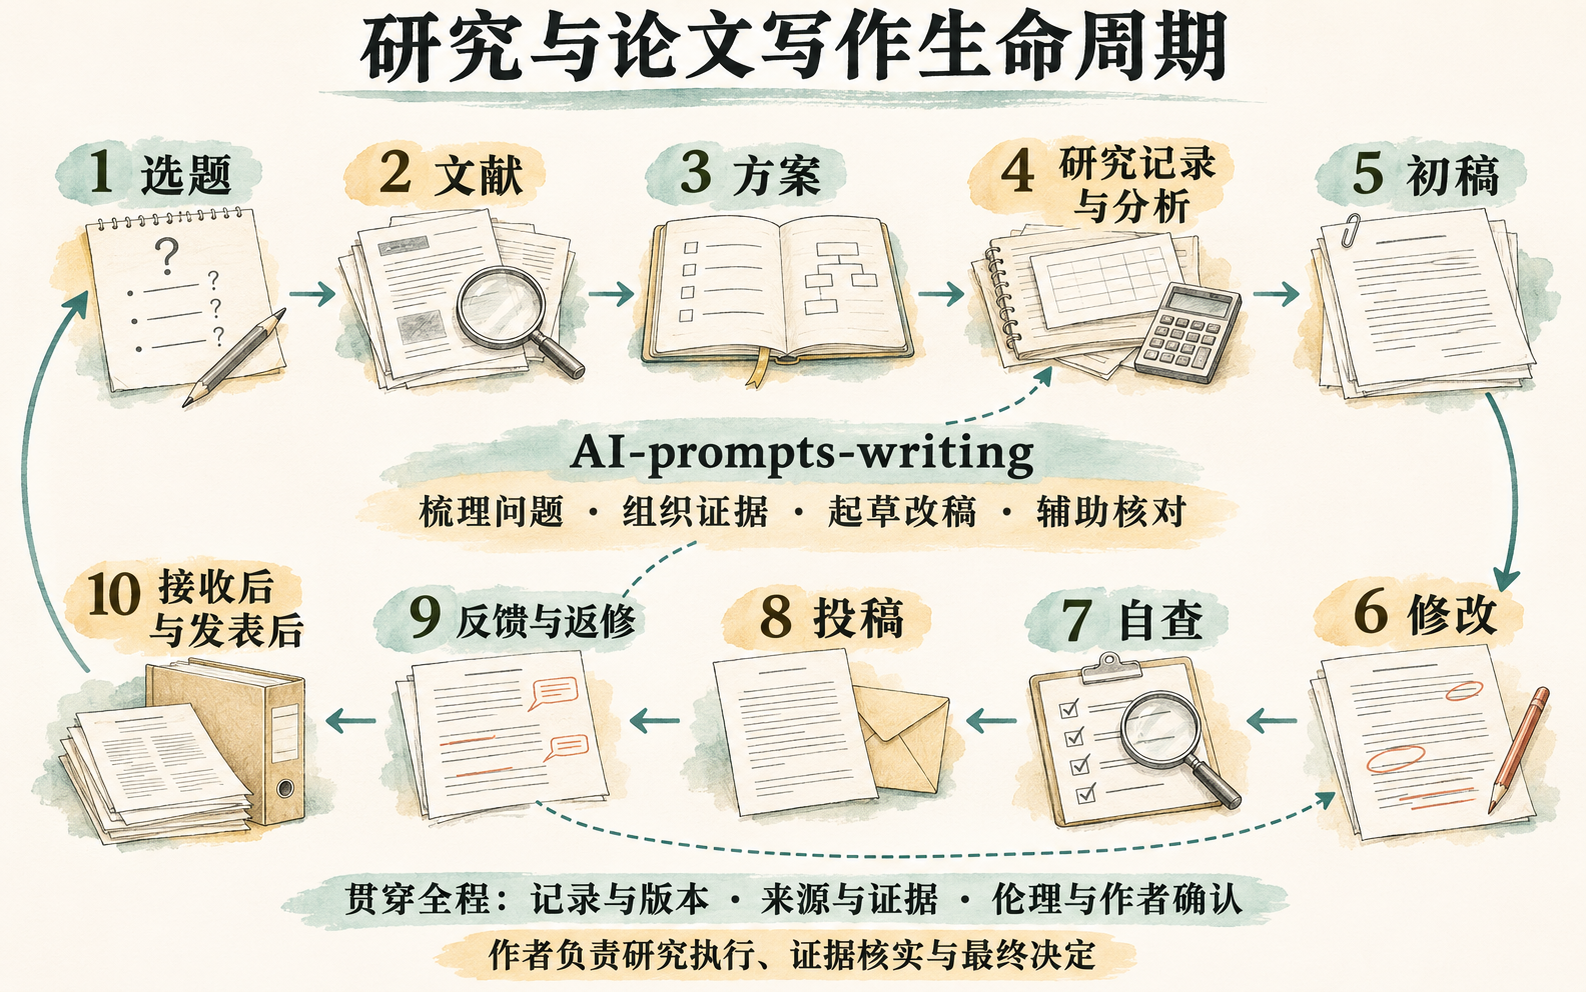
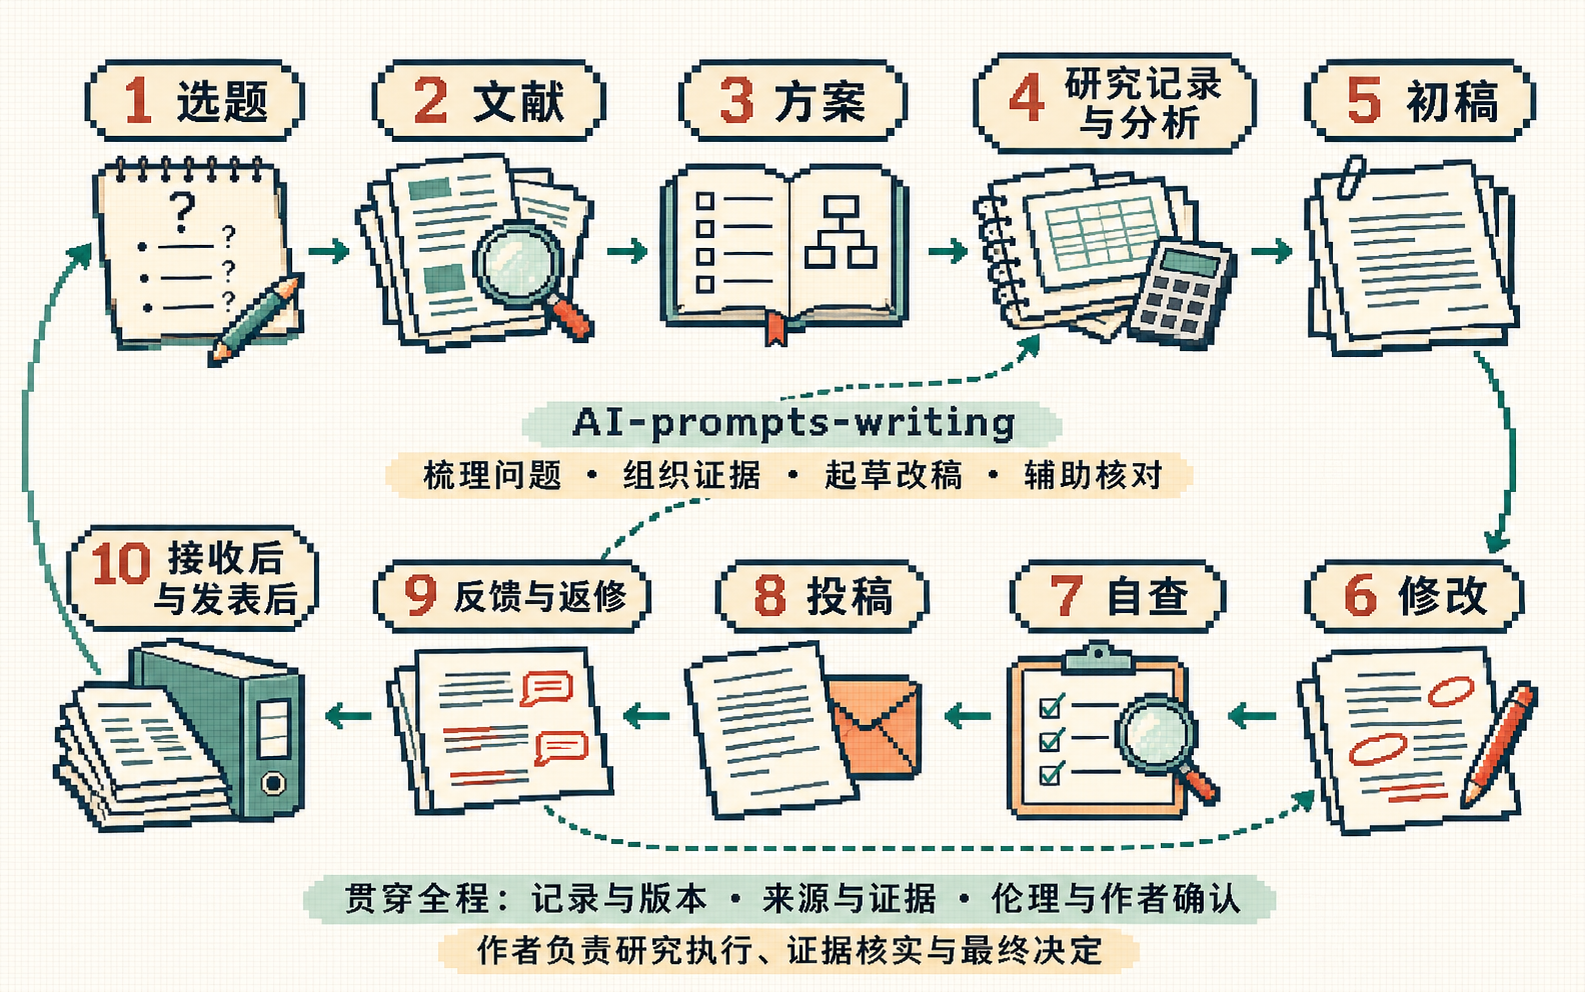
docs: redraw lifecycle figure as untitled pixel sketchnote

diff --git a/assets/research-writing-lifecycle-prompt.md b/assets/research-writing-lifecycle-prompt.md
@@ -1,5 +1,42 @@
 # 生命周期插图生成记录
+# 生命周期插图生成记录
 
+日期：2026-11-05。使用内置 image_gen 重新生成；图片用于项目说明，不是实验结果，也不代表任何期刊认可。
+
+本次按反馈改为像素手稿风格，并去掉顶部总标题。图中保留十个阶段、项目作用、返修回路和作者责任说明。没有使用外部 API，也没有用代码滤镜替代绘制。
+
+生成后的目视复核：像素方块、阶梯线条和有限配色清楚；顶部没有总标题；十个阶段编号各出现一次；主流程为 1→2→3→4→5→6→7→8→9→10；9→6、9→4 的虚线回路和 10→1 的外圈回路均可见。图中没有真实实验数据、比例承诺、出版方标志或水印。
+
+```text
+Use case: scientific-educational / infographic-diagram.
+Asset type: a single original landscape README illustration for AI-prompts-writing.
+
+Edit the provided lifecycle illustration into a pixel-sketch / pixel-art manuscript style. Use crisp square pixel clusters, stepped pixel edges, limited palette, sparse dithering, and pixelated hand-drawn notebook details. It should feel like a careful academic sketchnote made in pixel art, not watercolor, not smooth vector art, not calligraphy, not 3D, and not a cute cartoon.
+
+Remove the large top title completely. There must be no title or heading at the top and no empty title banner. Start the composition directly with the numbered lifecycle stages.
+
+Keep exactly these ten numbered Chinese stage labels, each number exactly once:
+"1 选题"
+"2 文献"
+"3 方案"
+"4 研究记录与分析"
+"5 初稿"
+"6 修改"
+"7 自查"
+"8 投稿"
+"9 反馈与返修"
+"10 接收后与发表后"
+
+Arrange them as a clean two-row serpentine workflow: 1→2→3→4→5 across the top; then 5→6→7→8→9→10 along the bottom from right to left. Use clear pixel arrows that never cross or cover labels. Keep a visible dashed pixel return arrow from 9 back to 6 and another from 9 back to 4, plus a light outer return from 10 back to 1.
+
+In the middle, use a small understated pixel label "AI-prompts-writing" and below it "梳理问题 · 组织证据 · 起草改稿 · 辅助核对". This is a modest annotation, not a title or banner.
+
+At the bottom, keep two small readable lines:
+"贯穿全程：记录与版本 · 来源与证据 · 伦理与作者确认"
+"作者负责研究执行、证据核实与最终决定"
+
+Use a clean off-white or pale gray paper background with a very subtle pixel grid, dark navy/charcoal pixel outlines, muted teal and rust-red accents, limited colors, generous whitespace, and strong readability when displayed at about 900 px wide. Use small pixel icons: question notes, papers and magnifier, plan notebook, records and analysis, manuscript, edit marks, checklist, envelope, reviewer comments, archived folder. Do not add any extra text, logos, publisher marks, percentages, fake data, charts, watermarks, or the word Nature. Preserve the information and flow but redraw the visual style and composition.
+```
 日期：2026-11-05。使用内置 image_gen 生成；下列提示词为原文。图片用于项目说明，不是实验结果，也不代表任何期刊认可。
 
 生成过程：首次请求因服务繁忙失败，未产出图片；使用同一提示词重试后成功。未使用外部 API，也未对图中文字或内容做代码编辑。

diff --git a/docs/coverage.md b/docs/coverage.md
@@ -60,4 +60,4 @@
 
 ![本项目综合整理的研究与论文写作流程](../assets/research-writing-lifecycle.png)
 
-插图是基于上述映射生成的项目说明图，采用手绘科研插画表现，不含真实实验数据，也不代表出版方背书。原始生成说明见[绘图提示词](../assets/research-writing-lifecycle-prompt.md)。
+插图是基于上述映射生成的像素手稿风格项目说明图，不含真实实验数据，也不代表出版方背书。原始生成说明见[绘图提示词](../assets/research-writing-lifecycle-prompt.md)。
